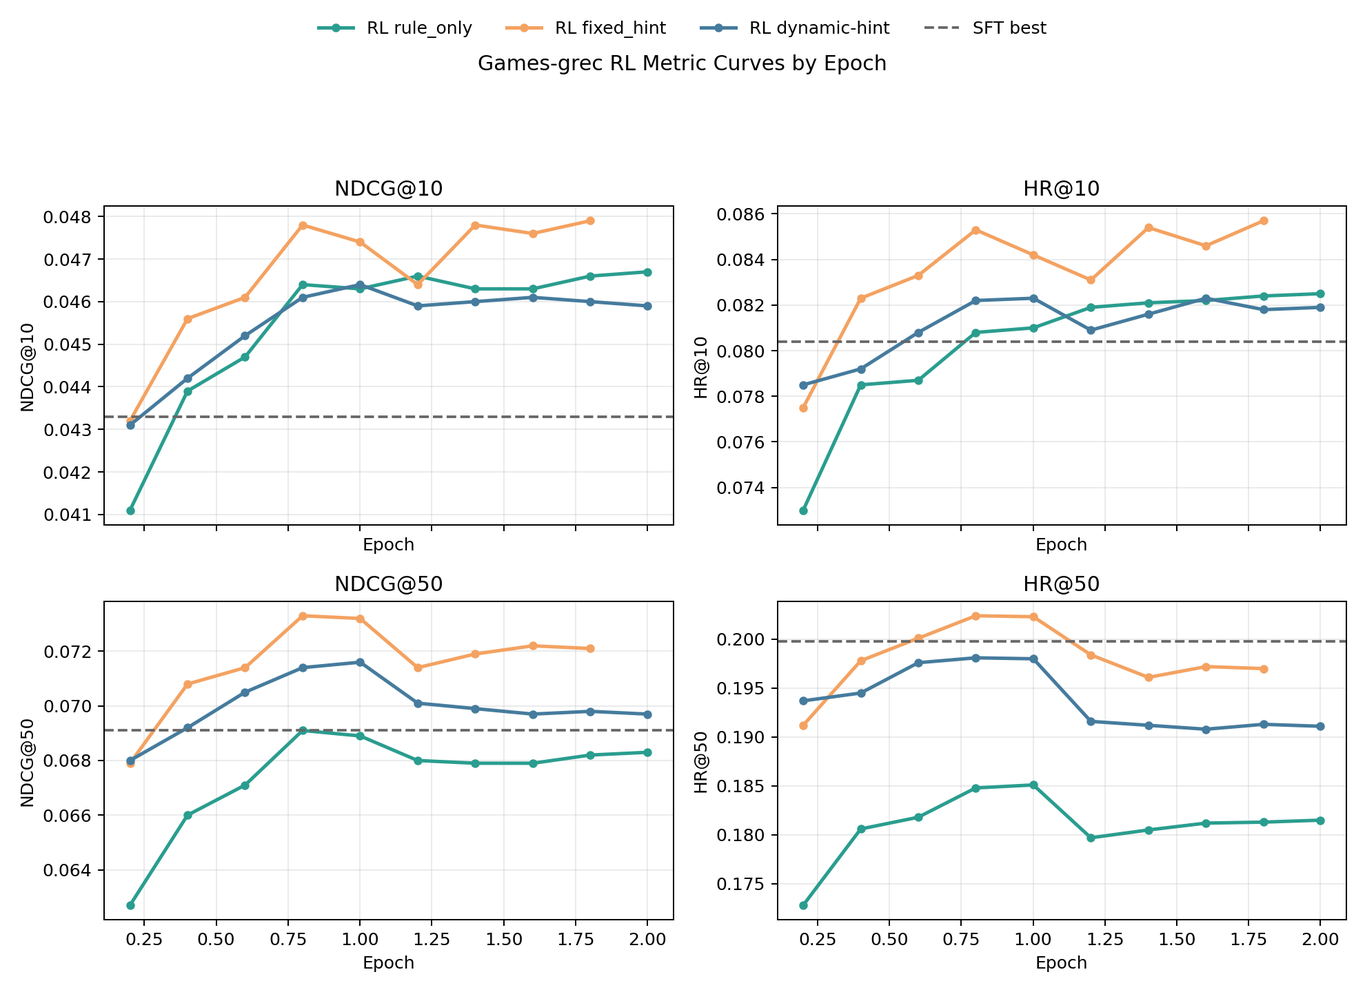
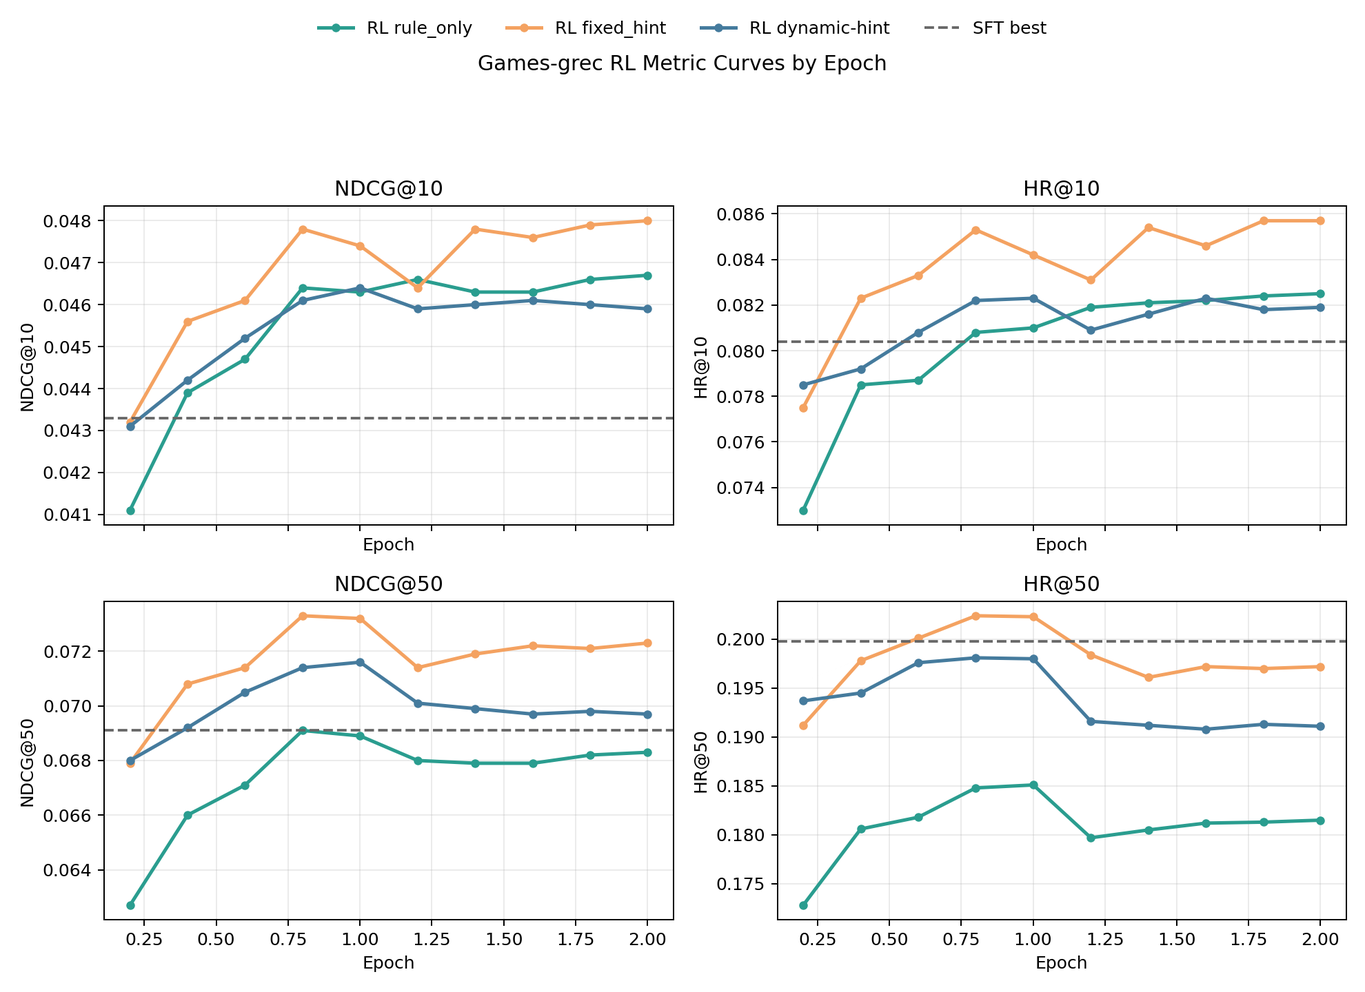
docs(results): refresh CE max1 and Games report assets
Regenerate stale report assets from the latest synced results and align the affected markdown notes for Instruments CE, Instruments max1, and Games RL comparisons.

diff --git a/docs/2026-04-01-games-grec-qwen4b-4-256-full-pipeline.md b/docs/2026-04-01-games-grec-qwen4b-4-256-full-pipeline.md
@@ -1,7 +1,7 @@
 # 2026-04-01 Games-grec 全流程实验记录（qwen3-embedding-4B index + Qwen2.5-3B SFT/RL）
 
 - 记录日期：2026-04-01
-- 维护日期：2026-04-15
+- 维护日期：2026-04-18
 - 记录目的：把 `Games` 数据集从 `index -> grec preprocess -> SFT -> 后续 RL / evaluate` 的关键信息集中到一份文档里，后面继续往同一篇里补 `rule_only`、`fixed_hint` 等 RL 结果。
 - 当前阶段：`index` 已训练并导出，`Games_grec` 数据已构建，`Games-grec` SFT 已完成，`rule_only` / `fixed_hint` / `dynamic-hint` 三条 RL 线已经同步到更后段 checkpoint，并已补充到统一 epoch 对齐曲线里。
 - 相关 W&B：
@@ -9,7 +9,7 @@
 
 ## 一句话结论
 
-`Games` 单数据集的 `qwen3-embedding-4B + rq4(cb256x4)` semantic index 已成功训练并导出，最终 generate 阶段碰撞率为 `0.0075873`；基于该 index 的 `Games_grec` 下游数据也已构建完成。`Games-grec-sft-qwen4B-4-256-dsz0` 的当前最佳 SFT 点按 `NDCG@10` 看是 `checkpoint-768`（`0.0433`），而后续 RL 默认从更稳妥的 `checkpoint-896` 起跑。当前本地 `results` 显示，三条 RL 线都已明显超过 SFT；其中 `fixed-hint` 按 `best NDCG@10 checkpoint` 看已经更新到 `checkpoint-7884 / NDCG@10=0.0479 / HR@10=0.0857`，但它的 coverage 峰值仍出现在更早的 `checkpoint-3504 / HR@50=0.2024`；`rule_only` 在长训练后把 plain exact 奖励推到了 `checkpoint-8752 / NDCG@10=0.0467`，`dynamic-hint` 当前最好点仍是 `checkpoint-4380 / NDCG@10=0.0464 / HR@50=0.1980`。当前更准确的阶段性排序是：`fixed-hint > rule_only ≳ dynamic-hint > SFT`（按 `NDCG@10`），但如果只看 `best-NDCG@10 checkpoint` 的 `HR@50`，`dynamic-hint` 仍略高于 late-stage `fixed-hint`。
+`Games` 单数据集的 `qwen3-embedding-4B + rq4(cb256x4)` semantic index 已成功训练并导出，最终 generate 阶段碰撞率为 `0.0075873`；基于该 index 的 `Games_grec` 下游数据也已构建完成。`Games-grec-sft-qwen4B-4-256-dsz0` 的当前最佳 SFT 点按 `NDCG@10` 看是 `checkpoint-768`（`0.0433`），而后续 RL 默认从更稳妥的 `checkpoint-896` 起跑。当前本地 `results` 显示，三条 RL 线都已明显超过 SFT；其中 `fixed-hint` 按 `best NDCG@10 checkpoint` 看已经更新到 `checkpoint-8752 / NDCG@10=0.0480 / HR@10=0.0857`，但它的 coverage 峰值仍出现在更早的 `checkpoint-3504 / HR@50=0.2024`；`rule_only` 在长训练后把 plain exact 奖励推到了 `checkpoint-8752 / NDCG@10=0.0467`，`dynamic-hint` 当前最好点仍是 `checkpoint-4380 / NDCG@10=0.0464 / HR@50=0.1980`。当前更准确的阶段性排序是：`fixed-hint > rule_only ≳ dynamic-hint > SFT`（按 `NDCG@10`），但如果只看 `best-NDCG@10 checkpoint` 的 `HR@50`，`dynamic-hint` 仍略高于 late-stage `fixed-hint`。
 
 ## 1. 本地整理后的材料
 
@@ -359,13 +359,14 @@ bash scripts/evaluate_all_checkpoints.sh
 | `checkpoint-6132` | `0.0478` | `0.0854` | `0.0380` | `0.0554` | `0.0719` | `0.1961` |
 | `checkpoint-7008` | `0.0476` | `0.0846` | `0.0378` | `0.0548` | `0.0722` | `0.1972` |
 | `checkpoint-7884` | `0.0479` | `0.0857` | `0.0382` | `0.0554` | `0.0721` | `0.1970` |
+| `checkpoint-8752` | `0.0480` | `0.0857` | `0.0383` | `0.0555` | `0.0723` | `0.1972` |
 
 观察：
 
 - `fixed_hint` 从第一个 checkpoint 开始就显著强于 plain `rule_only`。
 - 它在中前段先把 coverage 拉到全场最高，`checkpoint-3504 / HR@50=0.2024` 仍然是当前最强的 top-50 覆盖点。
-- 但按 `NDCG@10` 看，`fixed_hint` 后段又重新抬升，当前最好点已经更新到 `checkpoint-7884 / NDCG@10=0.0479`，也是目前全场最高的 top-10 结果。
-- 这条线现在最重要的现象是：late-stage top-10 继续变强，但 coverage 已经从 `3504` 的峰值区间缓慢回落到 `0.1970` 左右，因此它更像是在“top-10 极值”和“coverage 峰值”之间形成了两段式最优点。
+- 但按 `NDCG@10` 看，`fixed_hint` 后段又重新抬升，当前最好点已经更新到 `checkpoint-8752 / NDCG@10=0.0480`，也是目前全场最高的 top-10 结果。
+- 这条线现在最重要的现象是：late-stage top-10 继续变强，但 coverage 已经从 `3504` 的峰值区间缓慢回落到 `0.1972` 左右，因此它更像是在“top-10 极值”和“coverage 峰值”之间形成了两段式最优点。
 
 ### 8.3 `dynamic-hint` 结果
 
@@ -399,14 +400,14 @@ bash scripts/evaluate_all_checkpoints.sh
 | --- | --- | ---: | ---: | ---: | ---: |
 | SFT | `checkpoint-768` | `0.0433` | `0.0804` | `0.0691` | `0.1998` |
 | RL `rule_only` | `checkpoint-8752` | `0.0467` | `0.0825` | `0.0683` | `0.1815` |
-| RL `fixed_hint` | `checkpoint-7884` | `0.0479` | `0.0857` | `0.0721` | `0.1970` |
+| RL `fixed_hint` | `checkpoint-8752` | `0.0480` | `0.0857` | `0.0723` | `0.1972` |
 | RL `dynamic-hint` | `checkpoint-4380` | `0.0464` | `0.0823` | `0.0716` | `0.1980` |
 
 当前可以直接写进结论里的版本：
 
-- `fixed-hint` 现在已经把 `NDCG@10` 拉到 `0.0479`，并且 `HR@10` 也来到全场最高，因此它仍然是当前 `Games-grec` 的最强 top-10 主线。
+- `fixed-hint` 现在已经把 `NDCG@10` 拉到 `0.0480`，并且 `HR@10` 也来到全场最高，因此它仍然是当前 `Games-grec` 的最强 top-10 主线。
 - plain `rule_only` 虽然把 top-10 也推到了 `0.0467`，但 `HR@50=0.1815` 明显偏低，依然是“top-10 强、coverage 弱”的线。
-- `dynamic-hint` 目前仍然是非常有竞争力的第二梯队：`NDCG@10=0.0464`，而且在“按自己 best `NDCG@10` 选点”的口径下，`HR@50=0.1980` 仍略高于 late-stage `fixed-hint` 的 `0.1970`。
+- `dynamic-hint` 目前仍然是非常有竞争力的第二梯队：`NDCG@10=0.0464`，而且在“按自己 best `NDCG@10` 选点”的口径下，`HR@50=0.1980` 仍略高于 late-stage `fixed-hint` 的 `0.1972`。
 - 如果改看 coverage 峰值而不是 best `NDCG@10 checkpoint`，`fixed-hint` 的 `checkpoint-3504 / HR@50=0.2024` 仍然是全场最好，因此它依然是最强、但不是单一 checkpoint 同时最优所有指标的线。
 - 如果只按当前同步到本地的 best 点写结论，最合理的说法已经变成：`fixed-hint > rule_only ≳ dynamic-hint > SFT`。
 
@@ -437,16 +438,16 @@ bash scripts/evaluate_all_checkpoints.sh
 
 也就是说，这张图现在可以严格看出：
 
-- `dynamic-hint` 目前已经同步到完整 `2 epoch`
-- `fixed-hint` 目前已经同步到大约 `1.8 epoch`
-- 它们之前看起来“已经跑满 2 epoch”的错觉，已经被纠正了
+- `dynamic-hint` 和 `fixed-hint` 现在都已经同步到完整 `2 epoch`
+- `fixed-hint` 的 best top-10 点也已经从 `epoch≈1.8` 进一步推到了 `epoch=2.0`
+- 这张图现在区分的已经不是“谁还没跑满”，而是“谁的最佳点出现在中期、谁的最佳点出现在训练末端”
 
 直接读图可以得到：
 
 - `rule_only` 在 `NDCG@10` 上后程还在慢慢涨，但 `NDCG@50 / HR@50` 很早就进入平台区，后面甚至略有回落。
 - `fixed_hint` 和 `dynamic-hint` 从中期开始就稳定压在更高的 `NDCG@50 / HR@50` 区域。
 - `dynamic-hint` 的 top-10 增长最平滑，但大约到 `epoch≈1.0`（`checkpoint-4380`）后就开始软回落，并且这次已经用后续完整 `2 epoch` 数据确认了这一点。
-- `fixed_hint` 在 `epoch≈0.8`（`checkpoint-3504`）左右先拿到最强 coverage，随后在 `epoch≈1.8`（`checkpoint-7884`）又把 `NDCG@10` / `HR@10` 推到新的全场高点，呈现出比较典型的“两段式最优”。
+- `fixed_hint` 在 `epoch≈0.8`（`checkpoint-3504`）左右先拿到最强 coverage，随后在 `epoch=2.0`（`checkpoint-8752`）又把 `NDCG@10` / `HR@10` 推到新的全场高点，呈现出比较典型的“两段式最优”。
 
 ### 8.6 Best 点散点图
 
@@ -464,11 +465,11 @@ bash scripts/evaluate_all_checkpoints.sh
 
 如果你现在要继续推进实验，建议顺序是：
 
-1. 如果远端还有 `dynamic-hint` / `fixed_hint` 的更后段 checkpoint，继续同步后补进同一张曲线，确认当前这轮“见顶后回落”的判断是否稳定。
+1. 现在三条 RL 线都已经补到共享的 `2 epoch` horizon，下一步更适合做 task-level 对照和 checkpoint selection，而不是继续等图上最后一个点。
 2. 如果要写阶段性结论，现在更适合写成：
    `fixed-hint > rule_only ≳ dynamic-hint > SFT`，
    并补一句：`rule_only` 仍然是 coverage 最弱的一条，而 `fixed-hint` 目前在 top-10 上最强、在 coverage 上也保留了独立峰值。
 3. 后续若要继续扩展，可以考虑：
-   - 分开比较 `fixed-hint` 的 best-top10 点（`7884`）和 best-coverage 点（`3504`），确认后续汇报口径更适合用哪一个
+   - 分开比较 `fixed-hint` 的 best-top10 点（`8752`）和 best-coverage 点（`3504`），确认后续汇报口径更适合用哪一个
    - 检查 `fixed_hint` 是否存在更好的 beam/depth 组合
    - 补一张三条 RL 线与 SFT 的 epoch-aligned 曲线图

diff --git a/docs/2026-04-16-instruments-dynamic-hint-max1-ablation.md b/docs/2026-04-16-instruments-dynamic-hint-max1-ablation.md
@@ -1,8 +1,8 @@
 # Instruments Dynamic-Hint Max1 消融结果（2026-04-16）
 
 - Record date: 2026-04-16
-- Last updated: 2026-04-17
-- Status: 已同步 `max1` 结果并完成基于 `checkpoint-*/metrics.json` 的第二轮分析；当前已经同步到 `checkpoint-2997`，按与长跑 dynamic 线一致的 `3326 step = 2 epoch` 口径，这大约是 `epoch≈1.802`。训练日志和 train-time 标量还没一起同步回来，所以这篇 note 目前仍然只覆盖 eval 侧证据。
+- Last updated: 2026-04-18
+- Status: 已同步 `max1` 结果并完成基于 `checkpoint-*/metrics.json` 的第三轮分析；当前已经同步到 `checkpoint-3326`，按与长跑 dynamic 线一致的 `3326 step = 2 epoch` 口径，这就是完整 `epoch=2.0`。训练日志和 train-time 标量还没一起同步回来，所以这篇 note 目前仍然只覆盖 eval 侧证据。
 - Goal: 在 `Instruments-grec` 上做一个最小改动的 `dynamic hint` 消融，只把 online hint budget 从 `<=3` 收紧到 `<=1`，不改 trainer 逻辑，不引入 no-hit 样本丢弃，然后看它和现有 dynamic / no-hint / fixed-hint 参考线相比到底落在什么位置。
 
 ## 1. 这次实验到底改了什么
@@ -95,7 +95,7 @@
 | `dynamic hint max1` | `checkpoint-999` | 0.601 | 0.1907 | 0.0925 | peak coverage 略低于 gather-fix，但高于 sid-only 和 rule_only |
 | corrected `fixed taskfix sid-only` | `checkpoint-2652` | 2.000 | 0.1935 | 0.0945 | 仍然是更强的 clean hint 参考 |
 
-如果只看 coverage 峰值，`max1` 还没有超过 `dynamic gather-fix`，差 `0.0024` `HR@50`。但它比 `dynamic sid-only` 高 `0.0039`，比 `rule_only rerun` 高 `0.0139`，因此至少可以确认它不是“hint budget 收紧后 coverage 直接塌掉”的失败 run。更重要的是，这个 peak 发生在 `epoch≈0.601`，而且后续同步到 `2997` 之后也没有再被刷新。
+如果只看 coverage 峰值，`max1` 还没有超过 `dynamic gather-fix`，差 `0.0024` `HR@50`。但它比 `dynamic sid-only` 高 `0.0039`，比 `rule_only rerun` 高 `0.0139`，因此至少可以确认它不是“hint budget 收紧后 coverage 直接塌掉”的失败 run。更重要的是，这个 peak 发生在 `epoch≈0.601`，而且后续同步到完整 `checkpoint-3326` 之后也没有再被刷新。
 
 ### 3.3 共享 checkpoint 的 readout
 
@@ -112,12 +112,13 @@
 | `2331` | `0.0918 / 0.1776` | `0.0927 / 0.1863` | `0.0953 / 0.1659` |
 | `2664` | `0.0921 / 0.1779` | `0.0930 / 0.1853` | `0.0959 / 0.1684` |
 | `2997` | `0.0920 / 0.1783` | `0.0936 / 0.1855` | `0.0960 / 0.1681` |
+| `3326` | `0.0918 / 0.1777` | `0.0935 / 0.1855` | `0.0959 / 0.1679` |
 
 从这张表里可以读出三个更细的现象：
 
 - `max1` 在 very early 到 mid phase 不是保守的。它在 `333`（约 `epoch≈0.200`）时就比 `gather-fix` 多 `+0.0031` `NDCG@10`，而 `HR@50` 基本持平。
 - 到 `999` 时，`max1` 已经实现了比 `gather-fix` 更高的 `NDCG@10`，同时 `HR@50` 还略高 `+0.0002`。这说明“浅 hint budget 不一定只能换来更像 `rule_only` 的曲线”，它也可能把 dynamic family 重新推到更好的平衡区。
-- 但扩到 `1998/2331/2664/2997` 之后，趋势已经很清楚了：`max1` 在 `epoch≈1.0` 之后持续回落。到 `checkpoint-2997`，它相对自己 best 点少了 `0.0014` `NDCG@10`、少了 `0.0034` `NDCG@50`、少了 `0.0122` `HR@50`。
+- 但扩到 `1998/2331/2664/2997/3326` 之后，趋势已经很清楚了：`max1` 在 `epoch≈1.0` 之后持续回落。到最终 `checkpoint-3326`，它相对自己 best 点少了 `0.0016` `NDCG@10`、少了 `0.0036` `NDCG@50`、少了 `0.0128` `HR@50`。
 - 所以当前更准确的描述已经从“前中期很强”进一步收敛成：“`max1` 是一个明显的 early-stop candidate，但不是更强的 long-run default。”
 
 ## 4. Figure
@@ -131,7 +132,7 @@
 - `max1` 明显不是简单退化成 `rule_only`。两条线在 `NDCG@10` 上确实更接近了，但 `max1` 的 `HR@50` 始终高得多，尤其在 `999~1665` 区间一直维持在 `0.188~0.191`，而 `rule_only` 只有 `0.174~0.177`。
 - `max1` 也不是单纯被现有 dynamic baseline 支配。它在 `333/999/1332` 这几个关键点上都能给出比 `gather-fix` 更高的 `NDCG@10`，而 coverage 只在 `666/1332/1665` 这些点略输。
 - 但 `max1` 目前还没有把 fixed-hint upper bound 打穿。corrected `fixed taskfix sid-only` 仍然在四个面板里整体压在更右上侧，说明 “把 dynamic budget 收浅” 和 “直接给更稳定的 fixed hint scaffold” 还是两件事。
-- 这次最重要的新信息就是：`max1` 现在已经同步到 `2997`（约 `epoch≈1.802`），而后半程走势基本确认了“回落而不是稳住”。换句话说，之前那个“也许只是还没跑完”的保留判断，现在已经大幅收窄了。
+- 这次最重要的新信息就是：`max1` 现在已经同步到完整 `checkpoint-3326`（`epoch=2.0`），而后半程走势基本确认了“回落而不是稳住”。换句话说，之前那个“也许只是还没跑完”的保留判断，现在已经基本可以去掉了。
 
 ### 4.2 Focused Four-way Comparison
 
@@ -151,12 +152,12 @@
 1. `max1` 仍然是最有意思的 shallow-budget dynamic 变体之一，但新的长尾结果说明它更像一个 early-stop 候选，而不是新的长期默认线。按 best-point 看，它几乎追平 `dynamic gather-fix` 的 top-10，并把 `HR@50` 提高了 `+0.0050`；但这些优势都停在前半程。
 2. 相比 `rule_only rerun`，`max1` 很明确地买回了 coverage，而且代价没有想象中大。它只丢了 `0.0026` `NDCG@10`，却多了 `0.0224` `HR@50`。
 3. `max1` 还没有超过 corrected `fixed taskfix sid-only` 这条 clean fixed 参考线，所以当前更稳妥的定位不是“新最优方法”，而是“当前 dynamic family 里一个值得 early-stop 的候选”。
-4. 现在最该防的误读已经不只是“它可能还没跑完”。更严谨的说法是：它在 `333~1332`（约 `epoch≈0.200~0.801`）的前中期表现非常强，但从 `1665` 往后就开始持续落后于 `gather-fix`，而且这个差距在 `1998~2997` 区间已经稳定存在。
+4. 现在最该防的误读已经不只是“它可能还没跑完”。更严谨的说法是：它在 `333~1332`（约 `epoch≈0.200~0.801`）的前中期表现非常强，但从 `1665` 往后就开始持续落后于 `gather-fix`，而且这个差距在 `1998~3326` 区间已经稳定存在。
 5. 因为 train-time 日志还没同步回来，这篇 note 只能支持 eval-side 结论。`selected_hint_depth_mean`、`selected_depth_1_frac`、`mean_length` 等机制解释现在仍然是待验证假说，不应该写成已经被日志证实。
 
 ## 6. Next Actions
 
 1. 把 `max1` 对应的 launcher log 或 wandb 导出一起同步回来，优先验证 `dynamic_hint_max_depth=1`、`selected_hint_depth_mean`、`selected_depth_1_frac`、`max_depth_miss_frac` 和 `completions/mean_length`。
-2. 如果这条 run 还会继续，`3326` 当然还值得补齐；但现在真正更重要的不是“等最后一个点”，而是把 `999/1332` 这两个 best-window checkpoint 当作候选 early-stop 点认真分析。
+2. 现在真正更重要的不是“等最后一个点”，而是把 `999/1332` 这两个 best-window checkpoint 当作候选 early-stop 点认真分析，并解释为什么 `1665` 之后会一路回落到 `3326`。
 3. 如果后续要给 dynamic family 选默认线，我会先把 `max1` 和 `gather-fix` 做一次 task-level 对照，尤其看 `max1` 的前半程优势是否集中在某几个 slice，以及后半程回落主要伤在哪些 slice。
 4. 如果后续要做更激进的 budget 实验，下一步更合理的是围绕 `max1` 补 trainer-side diagnostics，而不是直接跳到“hint1 miss 就丢样本”的更大改动。

diff --git a/docs/2026-04-11-genrec-instruments-rl-variant-comparison.md b/docs/2026-04-11-genrec-instruments-rl-variant-comparison.md
@@ -1,9 +1,9 @@
 # GenRec Instruments RL 七线主比较 + fixed-hint CE 补充（2026-04-11）
 
 - Record date: 2026-04-11
-- Last updated: 2026-04-17
+- Last updated: 2026-04-18
 - Goal: 把当前 `Instruments-grec` 里最常被一起讨论的 7 条 RL 线放到同一篇文档里，用统一 checkpoint 评测表和统一图片做一次手工对比，重点看 top-10 与 coverage 的取舍；同时补一个 focused `fixed-hint CE` 小节。
-- Current status: 已基于本地同步好的 `results/.../checkpoint-*/metrics.json` 重生七线对比图和导出表；`fixed taskfix` CE 小节现在纳入 non-CE、full `+CE` 和扩展到 `checkpoint-2664` 的 `hintce-2` 结果。
+- Current status: 已基于本地同步好的 `results/.../checkpoint-*/metrics.json` 重生七线对比图和导出表；`fixed taskfix` CE 小节现在纳入 non-CE、full `+CE` 和已经补齐到 `checkpoint-3326` 的 `hintce-2` full trace。
 
 ## 1. Config
 
@@ -93,13 +93,13 @@
 | --- | --- | ---: | ---: | ---: | ---: | ---: | ---: | ---: | --- |
 | corrected `fixed taskfix` | `checkpoint-2997` | 1.802 | 0.0931 | 0.1189 | 0.1094 | 0.1941 | 0.1962 | 0.400 | top-10 最强，但 early coverage spike 最明显 |
 | corrected `fixed taskfix + CE` | `checkpoint-2664` | 1.602 | 0.0915 | 0.1180 | 0.1081 | 0.1944 | 0.1947 | 2.000 | top-10 略弱，但 coverage 被拉成晚期平台 |
-| corrected `fixed taskfix + CE (hintce-2)` | `checkpoint-2664` | 1.602 | 0.0931 | 0.1168 | 0.1102 | 0.1951 | 0.1954 | 1.001 | 当前最强 CE 变体，但 trace 仍只到 `2664/3326` |
+| corrected `fixed taskfix + CE (hintce-2)` | `checkpoint-2664` | 1.602 | 0.0931 | 0.1168 | 0.1102 | 0.1951 | 0.1954 | 1.001 | 当前最强 CE 变体，full trace 已补齐到 `3326`，但 best 点仍停在 `2664` |
 
 这里要单独说明三点：
 
-- `hintce-2` 现在已经从 `checkpoint-1332` 扩到了 `checkpoint-2664`。它仍按 fixed family 的完整训练步数 `3326` 对齐，所以 best 点 `checkpoint-2664` 对应 `epoch≈1.602`，coverage 峰值 `checkpoint-1665` 对应 `epoch≈1.001`。
+- `hintce-2` 现在已经从 `checkpoint-1332` 扩到了完整 `checkpoint-3326`。新增的 `checkpoint-2997` 和 `checkpoint-3326` 分别给出 `NDCG@10 / HR@50 = 0.0930 / 0.1937` 和 `0.0930 / 0.1950`；best 点仍然停在 `checkpoint-2664`，coverage 峰值仍是 `checkpoint-1665`。
 - full `+CE` 的 peak `HR@50` 现在仍记为 `0.1947 @ checkpoint-3326`；而 `hintce-2` 的 peak `HR@50` 已经到 `0.1954 @ checkpoint-1665`。
-- 因此 `hintce-2` 已经不再只是 “early-run readout”。更准确的描述是：它现在是当前最强的 CE 变体，但因为 trace 还没到 `2997/3326`，还不能直接宣称它最终支配 non-CE。
+- 因此 `hintce-2` 已经不再只是 “early-run readout”。更准确的描述是：它现在是当前最强的 CE 变体，而且 full trace 也已经补齐；真正的 caveat 变成了它的 balanced 最优点出现在 `checkpoint-2664`，而不是最后一个 checkpoint。
 
 按 best checkpoint 直接比较：
 
@@ -160,8 +160,8 @@
 
 - non-CE `fixed taskfix` 依然是更强的 headline top-10 线：best 点停在 `checkpoint-2997 / NDCG@10=0.0931`，并且在后半程 `NDCG@10` 与 `HR@10` 仍保持领先。
 - full `+CE` 仍然最像“把 coverage 拉平为晚期平台”的正则版本。它没有 non-CE 那种 `epoch≈0.4` 的巨大 early spike，而是一路推到最右侧，最后形成 `HR@50≈0.1944~0.1947` 的晚期平台。
-- `hintce-2` 已经不再只是落在两者中间。扩到 `2664` 之后，它在 best 点上已经把 `NDCG@10` 拉到和 non-CE 持平，同时 `NDCG@50 / HR@50` 都超过 full `+CE`，而 peak `HR@50` 也抬到了 `0.1954`。
-- 当前真正需要保留的 caveat 只剩一个：`hintce-2` 还没到 `2997/3326`。所以它已经足够被视为 strongest CE variant，但还不该被写成“最终已经完全赢过 non-CE”。
+- `hintce-2` 已经不再只是落在两者中间。现在 full trace 已经补到 `3326`；它在 best 点上已经把 `NDCG@10` 拉到和 non-CE 持平，同时 `NDCG@50 / HR@50` 都超过 full `+CE`，而到 `checkpoint-3326` 仍保持 `NDCG@10=0.0930 / HR@50=0.1950`。
+- 当前真正需要保留的 caveat 也从“没跑满”变成了“最佳 balanced 点不在最后一个 checkpoint”。所以它已经足够被视为 strongest CE variant，但 late-stage `2997/3326` 并没有继续把 headline top-10 往上推。
 
 ### 4.5 Top-10 / Coverage Trade-off Scatter
 
@@ -182,12 +182,12 @@
 3. 在 fixed family 里，corrected `fixed hint taskfix sid-only` 已经基本复现 old `fixed mixed-single` 的主要收益，而且定义更干净。后续如果只保留一个 clean fixed 参考线，优先保留它。
 4. corrected `fixed hint taskfix` 给出了当前最高的 coverage 峰值 `HR@50=0.1962`。如果后续要研究 early-stop 或 explicit coverage objective，这条线仍然值得单独盯。
 5. full `+CE` 现在更像一个“平滑训练轨迹”的正则项，而不是提升 headline 指标的增强项。它把 early spike 拉成了晚期 coverage 平台，但在 top-10 上仍然弱于 non-CE 和 `hintce-2`。
-6. `hintce-2` 现在已经是最强的 CE 变体，不再只是 early-train curiosity。它在 `NDCG@10` 上追平 non-CE，同时在 `NDCG@50 / HR@50` 上给出更好的 balanced readout；剩余问题只是不知道跑到 `2997/3326` 后能否稳住。
+6. `hintce-2` 现在已经是最强的 CE 变体，而且 full trace 也已经补齐到 `3326`。它在 `NDCG@10` 上追平 non-CE，同时在 `NDCG@50 / HR@50` 上给出更好的 balanced readout；新增的 late checkpoints 说明它的优势能大体稳住，但不会在最末端继续放大。
 7. old `fixed hint mixed-single` 仍然是很有价值的现象学上界，但它不适合再被当作“更正确的方法”。在公开汇报或主结论里，最好把它标成 historical / bug-tainted reference。
 
 ## 6. Next Actions
 
 1. 下一版主结果对比可以收缩成 4 条主线：`rule_only rerun`、`dynamic gather-fix`、corrected `fixed taskfix sid-only`、old `fixed mixed-single`（只作为 historical reference）。
 2. 如果目标是 coverage，不要只看最终 checkpoint；应该补更密的 early-stop 评测，优先围绕 corrected `fixed taskfix` 的 `checkpoint-666` 和 `dynamic gather-fix` 的 `checkpoint-1332`。
-3. 如果继续追 CE 方向，优先不是再加新命名，而是把 `hintce-2` 补到至少 `2997/3326`，先看它能不能把当前 `2664` 的 balanced 优势稳到 full trace 末端。
+3. 如果继续追 CE 方向，优先不是再加新命名，而是围绕 `hintce-2` 的 `2664/2997/3326` 做 task-level 和训练日志分析，确认为什么 balanced 优势出现在中后段而不是最终 checkpoint。
 4. 如果后续要对任务层面下结论，应该把这些主线再按 `task1_sid_sft`、`task4_hisTitle2sid`、`task5_title_desc2sid` 分开看。当前这篇 note 只覆盖 aggregate eval，不足以单独支持 task-level 结论，尤其 old fixed 的 bug 主要会扭曲 hardest task 的 hint 深度。
